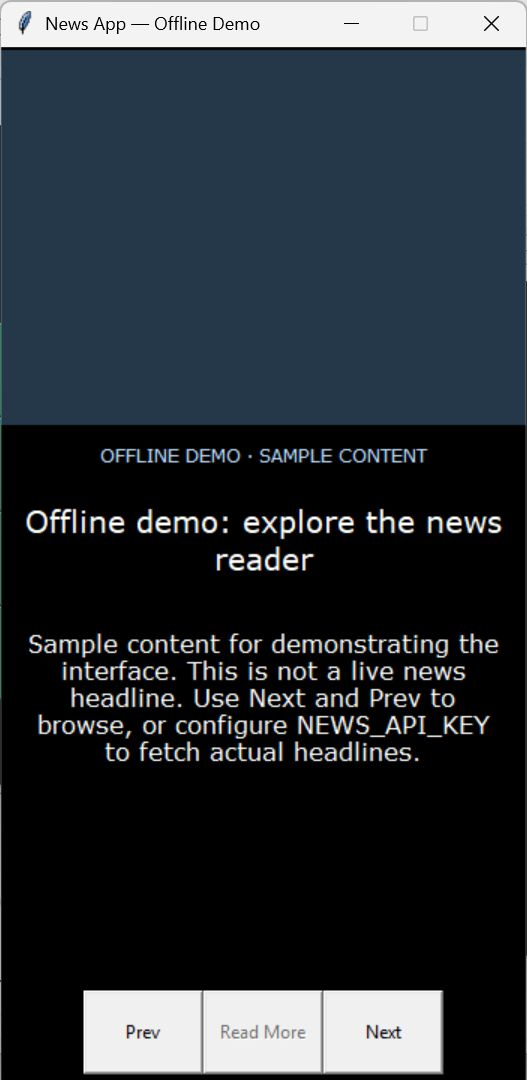
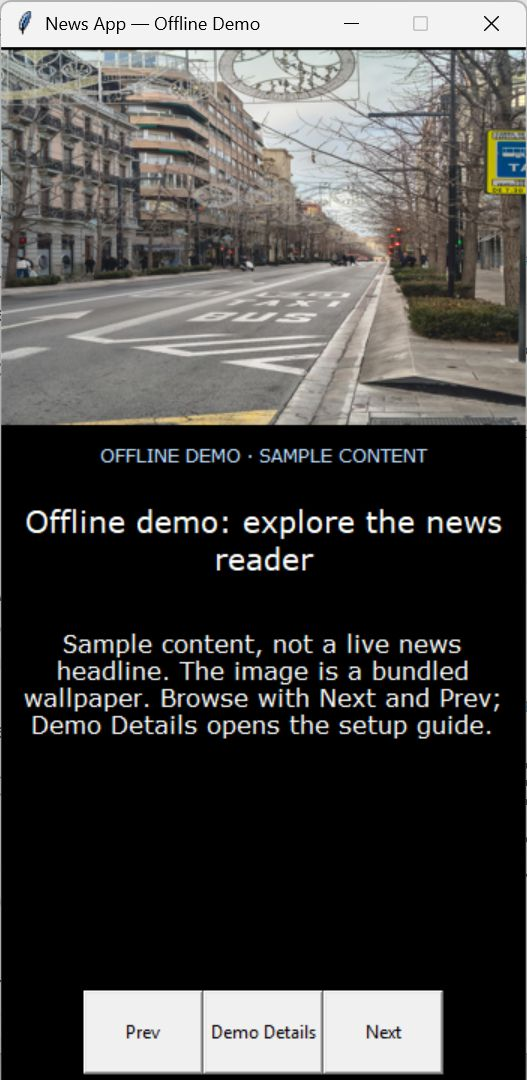
Fix news wallpaper fallback and demo links with regression checks

diff --git a/Wallpapers/news_gui.py b/Wallpapers/news_gui.py
@@ -3,12 +3,16 @@ import argparse
 import io
 import os
 import webbrowser
+from pathlib import Path
 from tkinter import Tk, Label, Button, Frame
 from tkinter import messagebox
 from urllib.request import urlopen
 
 import requests
 from PIL import ImageTk, Image
+
+IMAGE_DIR = Path(__file__).resolve().parent / 'wallpaper_viewer'
+DEMO_URL = 'https://github.com/sania-commits/PYTHON_GUI_PROJECTS#news-reader'
 
 
 class NewsApp:
@@ -21,8 +25,8 @@ class NewsApp:
         self.demo = demo
         if demo:
             self.articles = [
-                {'title': 'Offline demo: explore the news reader', 'description': 'Sample content for demonstrating the interface. This is not a live news headline. Use Next and Prev to browse, or configure NEWS_API_KEY to fetch actual headlines.'},
-                {'title': 'Offline demo: article navigation', 'description': 'This second sample demonstrates wrapping navigation, text layout, and the local image fallback. No API request is made in demo mode.'},
+                {'title': 'Offline demo: explore the news reader', 'description': 'Sample content, not a live news headline. The image is a bundled wallpaper. Browse with Next and Prev; Demo Details opens the setup guide.', 'demo_image': 'img1.jpg', 'url': DEMO_URL},
+                {'title': 'Offline demo: article navigation', 'description': 'This second sample demonstrates navigation and a different bundled wallpaper. Configure NEWS_API_KEY for actual headlines and article links.', 'demo_image': 'img2.jpg', 'url': DEMO_URL},
             ]
         else:
             key = os.environ.get('NEWS_API_KEY')
@@ -51,7 +55,11 @@ class NewsApp:
         for widget in self.root.pack_slaves():
             widget.destroy()
         article = self.articles[index]
-        image = Image.new('RGB', (350, 250), '#24384a')
+        try:
+            with Image.open(IMAGE_DIR / article.get('demo_image', 'img1.jpg')) as local_image:
+                image = local_image.convert('RGB').resize((350, 250))
+        except OSError:
+            image = Image.new('RGB', (350, 250), '#24384a')
         image_url = article.get('urlToImage')
         if image_url and not self.demo:
             try:
@@ -72,12 +80,17 @@ class NewsApp:
         count = len(self.articles)
         Button(frame, text='Prev', width=10, height=3, command=lambda: self.load_news_item((index - 1) % count)).pack(side='left')
         url = article.get('url')
-        Button(frame, text='Read More', width=10, height=3, state='normal' if url else 'disabled', command=lambda: self.open_link(url)).pack(side='left')
+        Button(frame, text='Demo Details' if self.demo else 'Read More', width=10, height=3, command=lambda: self.open_link(url)).pack(side='left')
         Button(frame, text='Next', width=10, height=3, command=lambda: self.load_news_item((index + 1) % count)).pack(side='left')
 
     def open_link(self, url):
         if url and url.startswith(('https://', 'http://')):
-            webbrowser.open(url)
+            try:
+                opened = webbrowser.open(url)
+                if not opened:
+                    messagebox.showinfo('News App', 'No browser could be opened. Article URL: ' + url)
+            except webbrowser.Error:
+                messagebox.showinfo('News App', 'The browser could not be opened. Article URL: ' + url)
         else:
             messagebox.showinfo('News App', 'No web article is available for this item.')
 

diff --git a/tests/test_news.py b/tests/test_news.py
@@ -1,0 +1,40 @@
+import importlib.util
+from pathlib import Path
+import unittest
+from unittest.mock import patch
+
+path = Path(__file__).resolve().parents[1] / 'Wallpapers/news_gui.py'
+spec = importlib.util.spec_from_file_location('news_gui', path)
+news = importlib.util.module_from_spec(spec)
+spec.loader.exec_module(news)
+
+
+class NewsTests(unittest.TestCase):
+    def test_demo_images_and_links_without_network(self):
+        with patch.object(news, 'Tk'), patch.object(news.NewsApp, 'load_news_item'), patch.object(news.requests, 'get') as get:
+            app = news.NewsApp(demo=True)
+            get.assert_not_called()
+        self.assertEqual(len(app.articles), 2)
+        for article in app.articles:
+            self.assertTrue((news.IMAGE_DIR / article['demo_image']).is_file())
+            self.assertTrue(article['url'].startswith('https://'))
+
+    def test_open_article(self):
+        with patch.object(news.webbrowser, 'open', return_value=True) as browser:
+            news.NewsApp.__new__(news.NewsApp).open_link('https://example.com/article')
+            browser.assert_called_once_with('https://example.com/article')
+
+    def test_missing_link(self):
+        with patch.object(news.messagebox, 'showinfo') as message, patch.object(news.webbrowser, 'open') as browser:
+            news.NewsApp.__new__(news.NewsApp).open_link(None)
+            message.assert_called_once()
+            browser.assert_not_called()
+
+    def test_browser_failure(self):
+        with patch.object(news.messagebox, 'showinfo') as message, patch.object(news.webbrowser, 'open', return_value=False):
+            news.NewsApp.__new__(news.NewsApp).open_link('https://example.com/article')
+            message.assert_called_once()
+
+
+if __name__ == '__main__':
+    unittest.main()

diff --git a/README.md b/README.md
@@ -78,7 +78,7 @@ export NEWS_API_KEY="YOUR_NEWSAPI_KEY"
 python Wallpapers/news_gui.py
 ```
 
-The reader handles missing keys, request failures, empty article lists, missing descriptions, and unavailable images. Image failures use a local plain-color placeholder. Live API behavior depends on your network and NewsAPI account access; it was not verified with a working key in this documentation pass. Requests currently run on the GUI thread, so fetching can briefly block the window.
+The reader handles missing keys, request failures, empty article lists, missing descriptions, and unavailable images. Image failures use a bundled wallpaper, with a plain-color fallback if that local file is unavailable. Offline mode shows two bundled wallpapers; its **Demo Details** button opens this setup guide. In live mode, **Read More** opens the article URL, or shows an explanatory message when the article has no valid link. Live API behavior depends on your network and NewsAPI account access; it was not verified with a working key in this documentation pass. Requests currently run on the GUI thread, so fetching can briefly block the window.
 
 An API key embedded in the previous code was removed from the current version. If that key is still active, revoke or rotate it in your NewsAPI account: deleting it from the latest file does not remove it from Git history.
 
